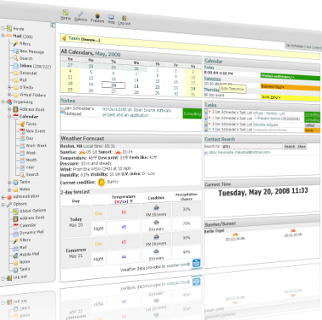
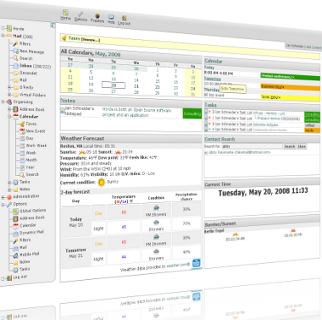
Let the groupware image "hover" over the stage.

diff --git a/css/horde.css b/css/horde.css
@@ -520,7 +520,7 @@ div.footer .section ul a {
 
 div.sliderview {
     width:900px;
-    height:310px;
+    height: 320px;
 }
 
 div.slide-horde4 {
@@ -529,8 +529,7 @@ div.slide-everywhere {
     background:url(../images/iphones.png) no-repeat 30px;
 }
 div.slide-ccc {
-    background:url(../images/groupware.png) no-repeat 30px 22px;
-    height: 320px;
+    background:url(../images/groupware.png) no-repeat 30px 15px;
 }
 div.slide-oss {
     background:url(../images/open_source.png) no-repeat 60px 20px;
